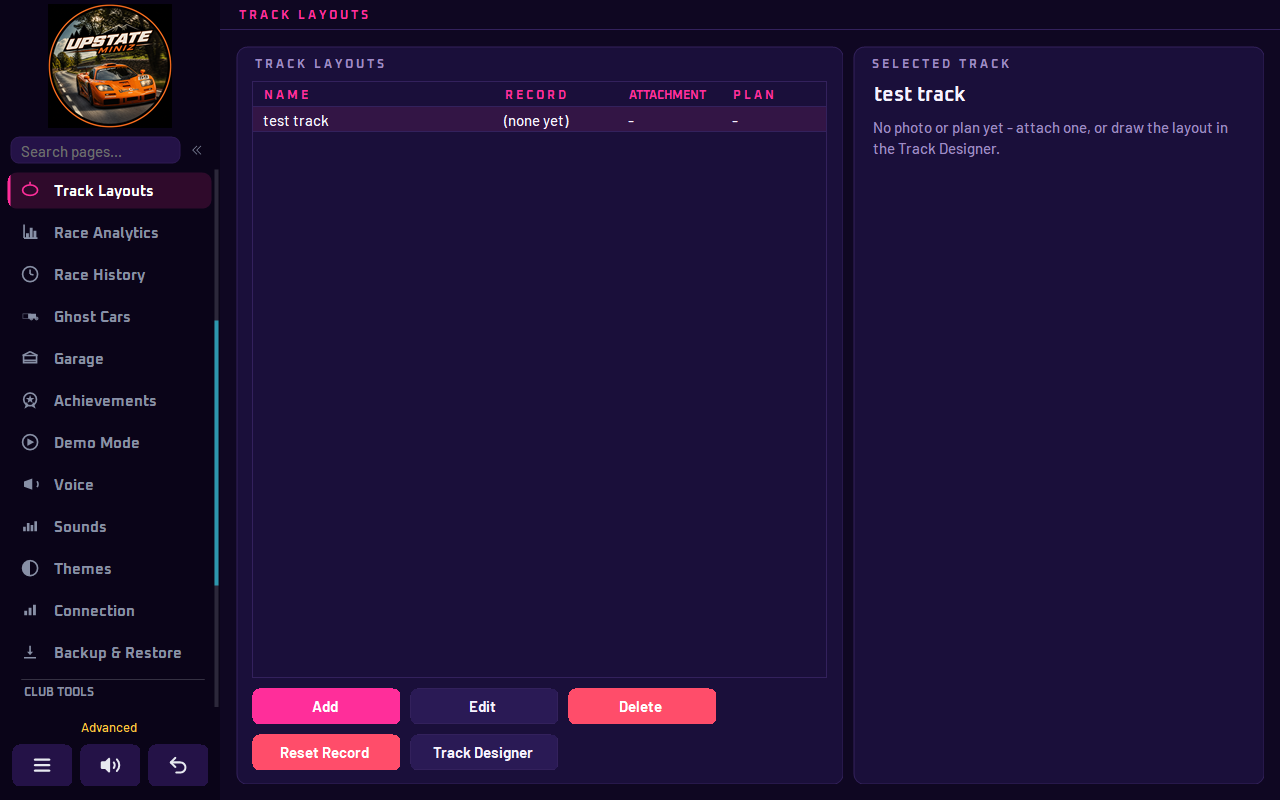
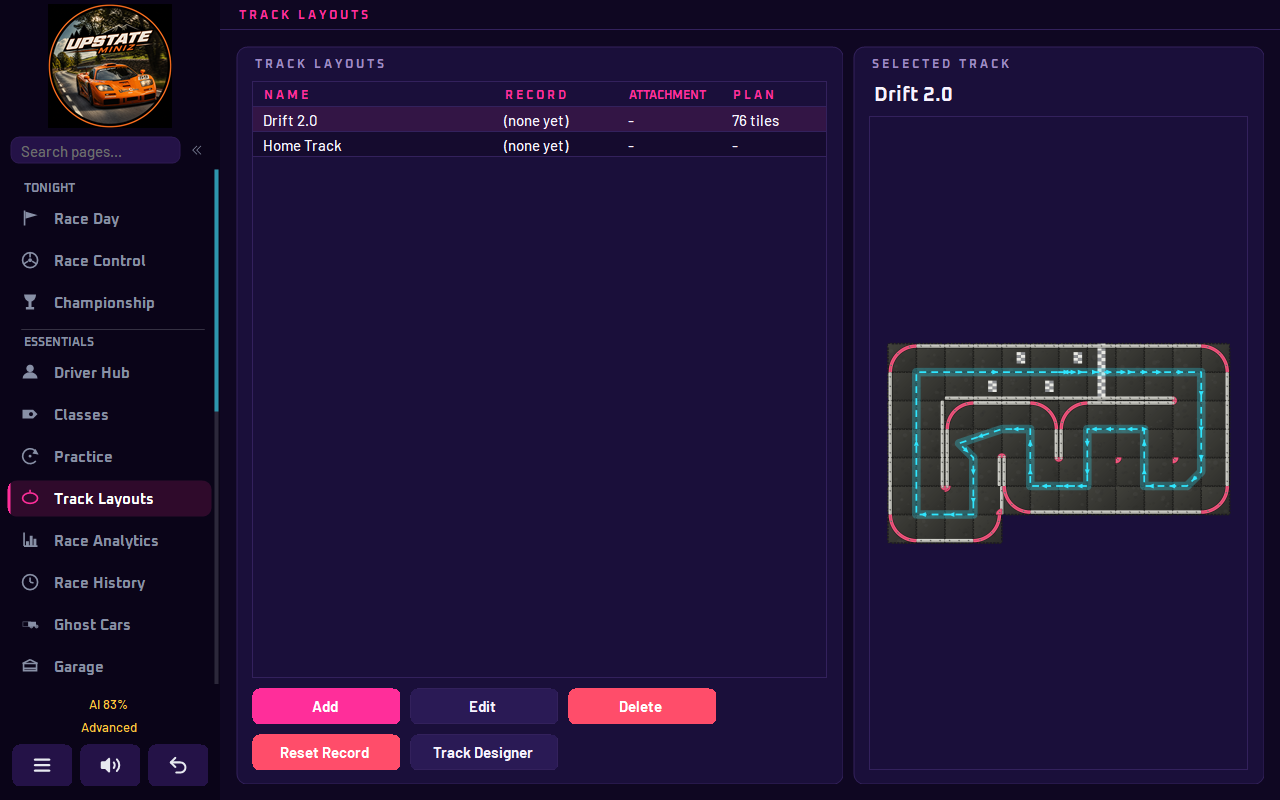
Docs: Track Designer screenshots
The Track Designer page had only a placeholder. It now shows the designer
on the Pieces, Lap and Plan tabs and in the angled view, taken from the
current build. The Track Layouts shot shows a layout with its plan.

diff --git a/website/docs/race-day/track-designer.md b/website/docs/race-day/track-designer.md
@@ -4,7 +4,7 @@ The Track Designer lets you draw an RCP-style tile track: lay the tiles with the
 
 On the **Track Layouts** page, select a layout and click **Track Designer**, or click it with nothing selected to draw a new track. See [Track Layouts](drivers-and-classes.md#track-layouts).
 
-<!-- screenshot: Track Designer with a traced photo underneath and rails drawn over it -->
+![The Track Designer with a 12 by 7 tile plan: rail tiles round the edge, pink outer curve tiles in the corners, a divider, a finish line and grid boxes, and a dashed blue racing line with arrows. The Pieces tab is open on the right](../assets/images/track-designer.png)
 
 The toolbar tools are **Pieces**, **Lane**, **Corners**, **Markings**, **Route**, **Erase**, **Photo** and **Select** (<kbd>1</kbd>, <kbd>2</kbd> and <kbd>3</kbd> pick a plain tile, a rail tile and an outer curve tile; <kbd>4</kbd> to <kbd>8</kbd> are Markings to Select; <kbd>L</kbd> is Lane and <kbd>C</kbd> is Corners). The status line under the drawing area explains how the current tool works. Before you click, the drawing shows what the click would make, in orange: the tile with its rail, the lane, or the turn. Other toolbar buttons:
 
@@ -79,6 +79,8 @@ Take the **Corners** tool (<kbd>C</kbd>) and click a corner to switch it between
 ## The lap time
 
 The lap in the corner of the drawing shows the racing line's length and a lap time, and says where the time comes from:
+
+![The Lap tab: the floor's 76 tiles, the rail counts, a lap of 19.50 m (64.0 ft) and its speed at an 8.9s lap, one custom tile, and the Play speed buttons](../assets/images/track-designer-lap.png)
 
 - **from N laps raced**: the middle lap of every race saved on this track layout since its racing line last changed, once there are at least 10 laps. Demo races and laps three times the usual (a crash, a car fetched off the floor) are left out.
 - **as entered**: the average lap typed in on **Track Layouts**, when there aren't enough races yet.
@@ -174,6 +176,8 @@ To name a tile, for example "Pit lane" or "Marshal", pick **Tile label** at the 
 
 Click **View** on the toolbar, or press <kbd>V</kbd>, to see the track tipped and turned, as you would standing at the end of the hall. The floor shows its joints, the rails stand up at their real height with their shadows, and the turn rails, markings and racing line are all there. **Play** drives the car round it too.
 
+![The same track in the angled view: the floor tipped and turned, the rails standing up round it, and the racing line drawn on the floor](../assets/images/track-designer-angled.png)
+
 - Drag to turn the track round and tip it, from straight down to a low angle.
 - Use the mouse wheel to go closer or further away.
 - Click **View** again, or pick any tool, to go back to the flat plan.
@@ -187,6 +191,8 @@ The markings include **Split 1 loop**, **Split 2 loop** and **Split 3 loop**: a 
 ## The Plan, Room and Lap tabs
 
 The **Plan**, **Room** and **Lap** tabs have:
+
+![The Plan tab: Build me a track, Start from a kit, the track name, the tile size set to 50 cm, and Check against a kit](../assets/images/track-designer-plan.png)
 
 - **Track name** (Plan) — required before you can save.
 - **Tile size** (Plan) — **30 cm**, **50 cm**, or any size in mm.

diff --git a/website/docs/race-day/drivers-and-classes.md b/website/docs/race-day/drivers-and-classes.md
@@ -613,7 +613,7 @@ A venue can't be applied while a race or practice is running, since switching th
 
 Mini-Z and RC tracks are rebuilt often, so HeatCaller lets you name and describe each layout. The track layout also holds the all-time lap record for that layout and how many corner marshal posts it needs.
 
-![The Track Layouts page with one layout listed and the Selected Track card beside it, with Add, Edit, Delete, Reset Record and Track Designer below](../assets/images/track-layouts.png)
+![The Track Layouts page with two layouts listed, one with a 76-tile plan, and the Selected Track card beside it showing that plan, with Add, Edit, Delete, Reset Record and Track Designer below](../assets/images/track-layouts.png)
 
 The list shows **Name**, **Record**, **Attachment** and **Plan** (how many tiles the drawn plan has). Selecting a layout shows its name and picture beside the list, under **Selected track**.
 
